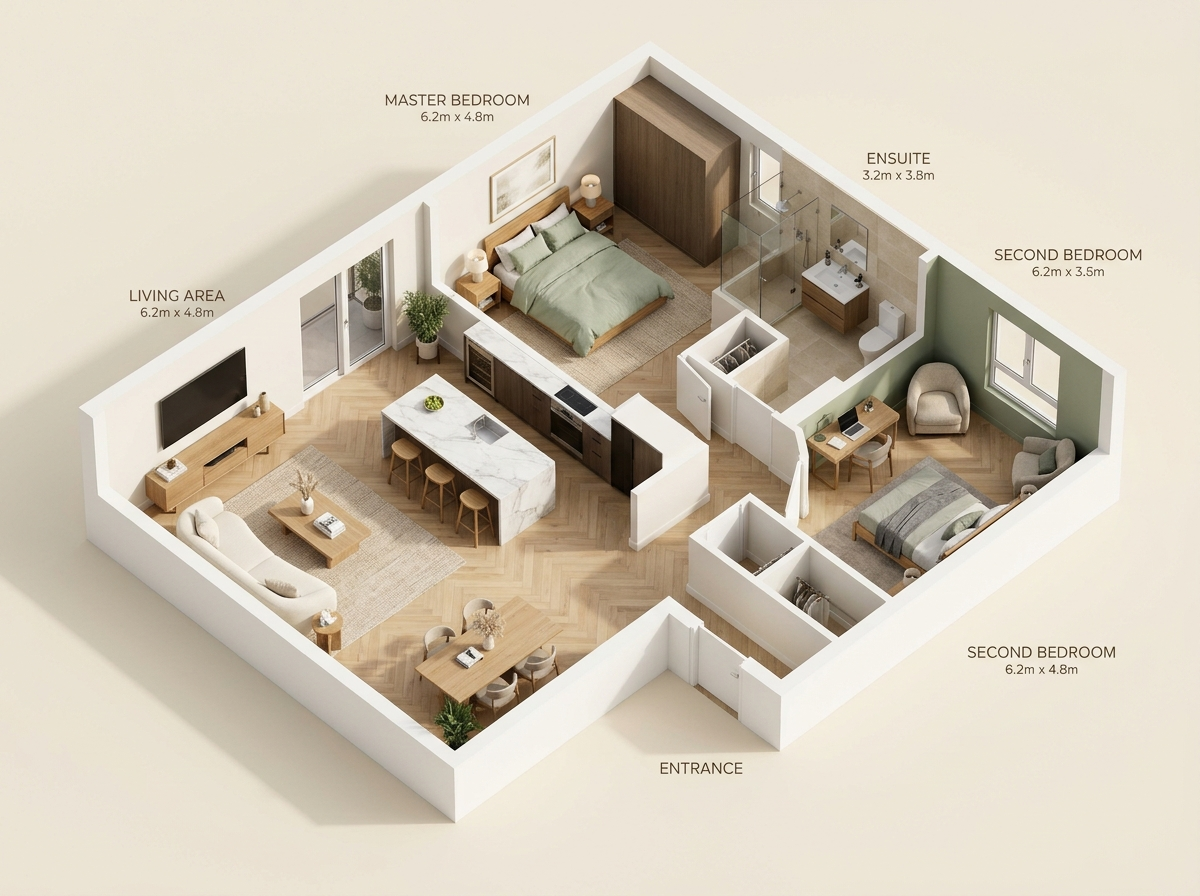
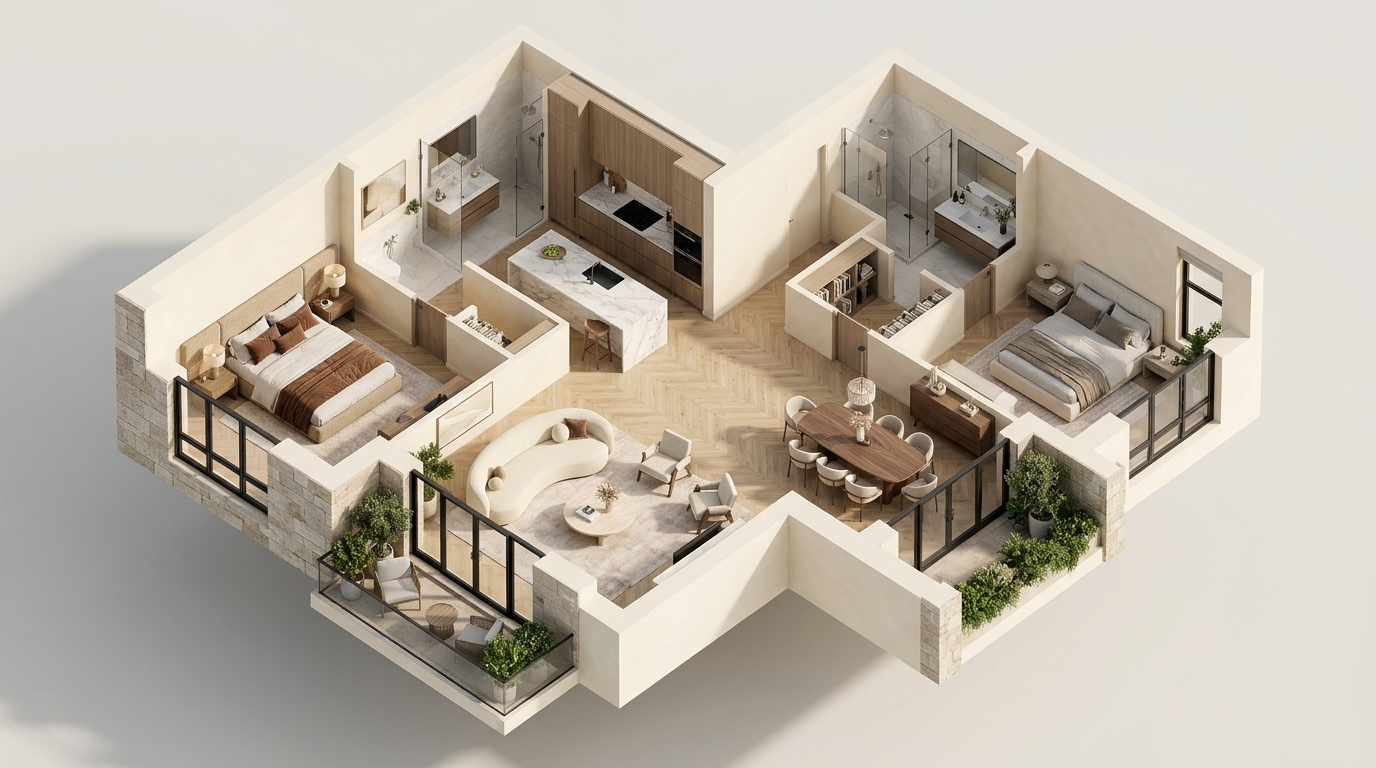
fix(floor-plans): resolve 2D-to-3D conversion to generate authentic furnished 3D isometric cutaway visualizations

diff --git a/frontend/src/pages/FloorPlanPage.tsx b/frontend/src/pages/FloorPlanPage.tsx
@@ -39,6 +39,7 @@ export const FloorPlanPage: React.FC = () => {
     try {
       const res = await api.uploadFile(file);
       setSourcePlanUrl(res.url);
+      setResult(null);
     } catch (err: any) {
       setError(err.message);
     }
@@ -235,7 +236,7 @@ export const FloorPlanPage: React.FC = () => {
                   </p>
                 </div>
                 <a
-                  href={result?.render_3d_url || "/images/floorplan-3d.jpg"}
+                  href={result?.render_3d_url || "/images/floorplan-3d-rendered.jpg"}
                   download="formaspace-3d-floorplan.jpg"
                   className="btn-secondary py-2 px-4 text-xs"
                 >
@@ -259,7 +260,7 @@ export const FloorPlanPage: React.FC = () => {
                     3D Furnished Visualization
                   </div>
                   <img
-                    src={result?.render_3d_url || "/images/floorplan-3d.jpg"}
+                    src={result?.render_3d_url || "/images/floorplan-3d-rendered.jpg"}
                     alt="3D Plan"
                     className="aspect-[4/3] w-full object-cover"
                   />

diff --git a/backend/app/routers/modules_router.py b/backend/app/routers/modules_router.py
@@ -33,25 +33,21 @@ def generate_floor_plan(
     req: FloorPlanGenerateRequest,
     current_user: dict = Depends(get_current_user),
 ):
-    # Produce furnished 2D & 3D perspective visualizations
-    furnished_2d, _ = _apply_demo_pil_transform(
-        req.source_plan_url,
-        "interior_redesign",
-        req.layout_style,
-        "Medium",
-        {"arrangement": req.furniture_arrangement},
-        0,
-    )
-    render_3d = "/images/floorplan-3d.jpg"
-    if "floorplan-2d" not in req.source_plan_url:
+    # Produce authentic 3D isometric cutaway visualization
+    base_3d = "/images/floorplan-3d-rendered.jpg"
+    try:
         render_3d, _ = _apply_demo_pil_transform(
-            req.source_plan_url,
-            "sketch_to_render",
+            base_3d,
+            "interior_redesign",
             req.layout_style,
             "High",
-            {"perspective": req.perspective},
+            {"perspective": req.perspective, "lighting": req.lighting_mood},
             1,
         )
+    except Exception:
+        render_3d = "/images/floorplan-3d-rendered.jpg"
+
+    furnished_2d = "/images/floorplan-2d.jpg"
 
     rooms = [
         {"name": "Living & Reception Salon", "area_sqft": 340, "zone": "Social", "suggested_pieces": ["Curved Bouclé Sofa", "Travertine Table", "Wool Area Rug"]},
